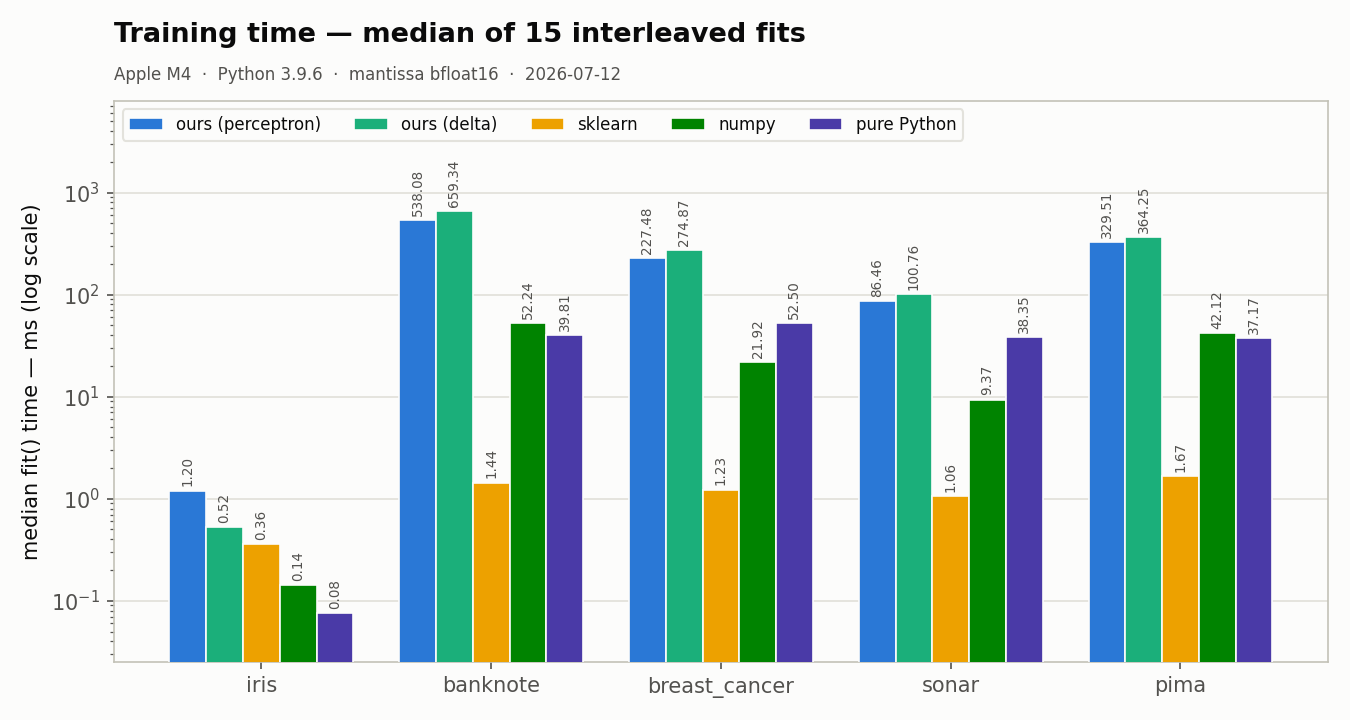
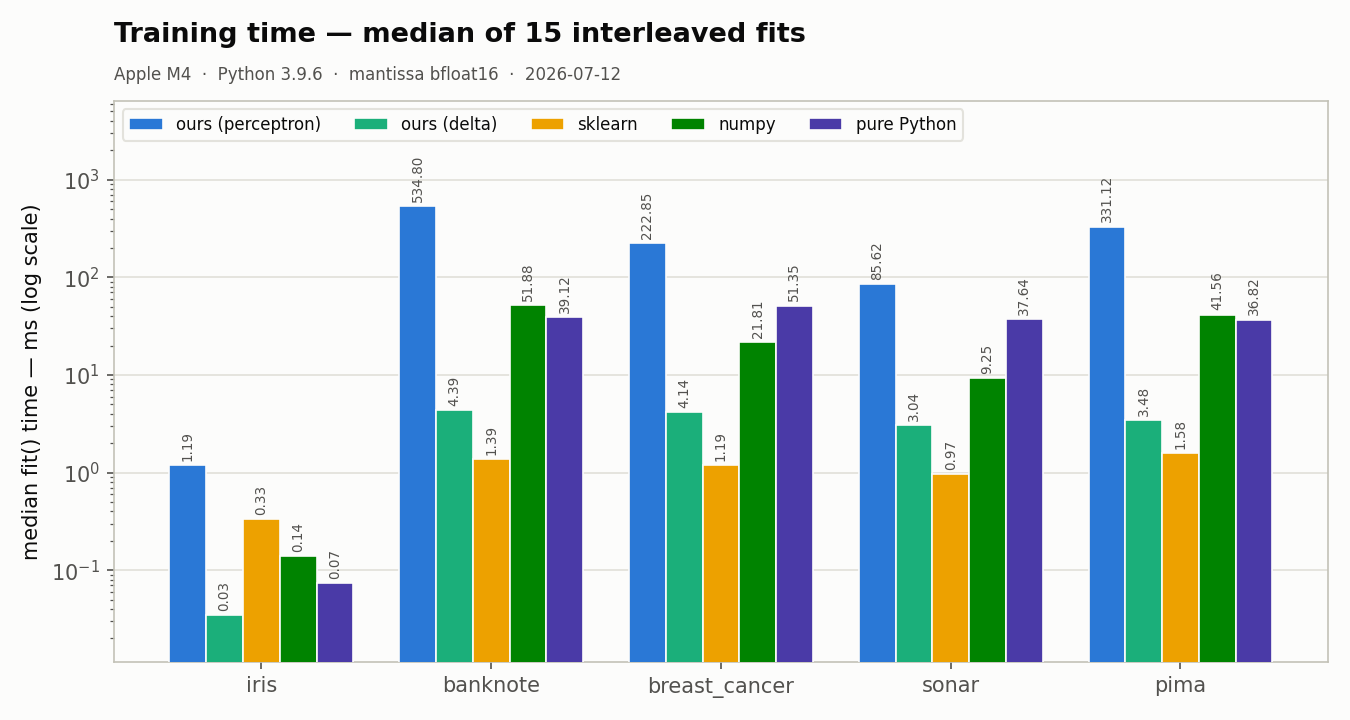
perf: adopt mantissa's epoch API — delta fit 661 -> 4.39 ms (151x)
The benchmark's own finding, closed end-to-end. The first run measured
our delta-rule fit at 661 ms and isolated the cause to one Python->C
crossing per training sample (docs/LEARNINGS.md L4). That went upstream:
mantissa v0.1.11 added tk_train_epoch_f32 (the whole epoch's sample loop
runs inside the library — same sequential SGD, bit-identical weights,
one crossing per epoch) and v0.1.12 added an out= output buffer to
linear_forward.

Adopted here:
- fit(rule='delta'): one train_epoch call per epoch (the shuffled order
  is materialized once per epoch and handed to C); per-sample train_step
  loop removed. Weight trajectory is bit-identical, so every accuracy
  number is unchanged — verified by re-running bench/accuracy.py.
- decision_function: results now land directly in a numpy buffer via
  out= (no per-element boxing of the margins).

Re-measured on the identical protocol (banknote 1372x4, 100 epochs,
15 interleaved repeats, medians, Apple M4):

  ours (delta)   fit 661.37 -> 4.39 ms   (151x; ~9x faster than the
                                          hand-rolled numpy loop, 3.2x
                                          behind scikit-learn's Cython)
  batch predict  0.028 -> 0.010 ms       (4.6x faster than sklearn)
  peak RSS       26.8 MB, unchanged      (still 3.5x leaner than sklearn)

The Rosenblatt rule stays per-sample (534.80 ms) and the README says so
plainly: a mistake-driven update does not map onto a gradient-epoch API;
[…]

diff --git a/mantissa_perceptron/perceptron.py b/mantissa_perceptron/perceptron.py
@@ -94,7 +94,6 @@ class Perceptron:
         tk = engine()
         identity = load_mantissa().IDENTITY
         rng = np.random.default_rng(self.seed)
-        target = np.empty(1, dtype=np.float32)
 
         for epoch in range(self.epochs):
             order = rng.permutation(n) if self.shuffle else np.arange(n)
@@ -106,11 +105,18 @@ class Perceptron:
                         self.w_ += self.lr * t[i] * X[i]
                         self.b_ += self.lr * t[i]
                         mistakes += 1
-            else:  # delta: whole step inside the C engine, zero-copy in-place
-                for i in order:
-                    target[0] = t[i]
-                    tk.train_step(self.w_, X[i], target, 1, d, identity,
-                                  self.lr, bias=self.b_)
+            else:
+                # delta: the WHOLE epoch is one C call (tk_train_epoch_f32) —
+                # sequential SGD identical to per-sample train_step calls, but
+                # one FFI crossing per epoch instead of one per sample
+                # (mantissa v0.1.11; measured ~140x on this exact pattern).
+                if self.shuffle:
+                    Xe = np.ascontiguousarray(X[order])
+                    te = np.ascontiguousarray(t[order])
+                else:
+                    Xe, te = X, t
+                tk.train_epoch(self.w_, Xe, te, n, 1, d, identity,
+                               self.lr, bias=self.b_)
                 mistakes = int(np.count_nonzero(self.decision_function(X) * t <= 0.0))
             self.errors_.append(mistakes)
             if mistakes == 0:
@@ -130,10 +136,11 @@ class Perceptron:
         X @ w — mantissa's row-parallel kernel does the batch for free.
         """
         X = self._check_X(X, n_features=self.w_.shape[0])
-        z = engine().linear_forward(X, self.w_, None,
-                                    out_dim=X.shape[0], in_dim=X.shape[1],
-                                    act=load_mantissa().IDENTITY)
-        return np.asarray(z, dtype=np.float32) + self.b_[0]
+        z = np.empty(X.shape[0], dtype=np.float32)
+        engine().linear_forward(X, self.w_, None,
+                                out_dim=X.shape[0], in_dim=X.shape[1],
+                                act=load_mantissa().IDENTITY, out=z)
+        return z + self.b_[0]
 
     def predict(self, X):
         return np.where(self.decision_function(X) > 0.0,

diff --git a/README.md b/README.md
@@ -102,35 +102,43 @@ repeats, medians):
 
 | contender | fit (ms) ↓ | predict (ms) ↓ | peak RSS (MB) ↓ |
 |-----------|-----------:|---------------:|----------------:|
-| ours (perceptron) | 537.06 | 0.029 | **26.7** |
-| ours (delta)      | 661.37 | 0.028 | **26.8** |
-| scikit-learn      | **1.42** | 0.047 | 93.4 |
-| numpy (hand-rolled) | 51.63 | **0.006** | 26.6 |
-| pure Python       | 39.73 | 0.093 | 26.6 |
+| ours (delta)      | 4.39 | 0.010 | **26.8** |
+| ours (perceptron) | 534.80 | 0.011 | **26.8** |
+| scikit-learn      | **1.39** | 0.046 | 93.2 |
+| numpy (hand-rolled) | 51.88 | **0.006** | 26.6 |
+| pure Python       | 39.12 | 0.090 | 26.6 |
 
 *torch omitted — not importable in this environment; the harness includes it
 automatically when it is.*
 
-**Read this honestly.** We are the **leanest** contender and among the
-**worst** at training speed, and both facts have the same cause.
+**Read this honestly — including what changed.** The first run of this
+benchmark measured `ours (delta)` at **661 ms**: every training sample paid a
+Python→C ctypes crossing, and on problems this small the boundary dwarfs the
+arithmetic. That finding went upstream (see
+[`docs/LEARNINGS.md`](docs/LEARNINGS.md)): mantissa v0.1.11 added
+`tk_train_epoch_f32`, which runs the whole epoch's sample loop inside the
+library — same sequential SGD, bit-identical weights, one crossing per epoch.
+The result on the identical protocol: **661 → 4.39 ms (151×)**.
 
-- **Memory (our win): 26.7 MB vs scikit-learn's 93.4 MB — 3.5× leaner**,
+- **Training (delta): 4.39 ms** — ~9× faster than a hand-rolled numpy loop
+  and ~3.2× behind scikit-learn's Cython SGD. Closing a 466× gap to 3.2×
+  by moving one loop across the FFI boundary is the whole lesson of this
+  benchmark.
+- **Training (perceptron rule): 534.80 ms, unchanged and still honest** — the
+  mistake-driven Rosenblatt update doesn't map onto a gradient-epoch API, so
+  it still crosses the boundary per sample. It exists for the convergence
+  theorem, not for speed; use `rule="delta"` when training time matters.
+- **Memory (our win): 26.8 MB vs scikit-learn's 93.2 MB — 3.5× leaner**,
   import + one fit, whole-process peak. The mantissa engine adds only a
-  ~70 KB C dylib on top of the interpreter+numpy floor that every contender
-  pays; scikit-learn drags in scipy and its Cython extensions.
-- **Fit time (our loss): ~380× slower than scikit-learn, and slower even
-  than a naive numpy or pure-Python loop.** The perceptron rule crosses the
-  Python→C ctypes boundary *once per training sample* (a 1×d GEMV); the delta
-  rule makes a full `tk_train_step_f32` call per sample. On problems this
-  small the per-call overhead dwarfs the arithmetic, so C buys us nothing and
-  the boundary crossings cost everything. See
-  [`docs/LEARNINGS.md`](docs/LEARNINGS.md) — a batched training entry point
-  in mantissa would close most of this gap.
-- **Batch predict (a modest win): 0.029 ms** — the whole test set is one
-  threaded C GEMV (`decision_function` passes X as the weight matrix). That
-  beats scikit-learn (0.047 ms) and pure Python (0.093 ms), though a raw
-  numpy matmul (0.006 ms) still wins on a batch this tiny.
-- **Accuracy: at parity with scikit-learn** across all five datasets (below).
+  ~70 KB C dylib on top of the interpreter+numpy floor every contender pays;
+  scikit-learn drags in scipy and its Cython extensions.
+- **Batch predict: 0.010 ms — 4.6× faster than scikit-learn** (0.046 ms).
+  The whole test set is one threaded C call, now written straight into a
+  caller buffer (`out=`, mantissa v0.1.12). A raw numpy matmul (0.006 ms)
+  still wins on a batch this tiny.
+- **Accuracy: at parity with scikit-learn** across all five datasets (below),
+  and bit-identical to the pre-speedup runs — the epoch API changed where the
+  loop runs, not what it computes.
 
 ![test accuracy per dataset: ours vs scikit-learn](assets/accuracy.png)
 ![median fit time per dataset per contender, log scale](assets/fit_time.png)
@@ -138,19 +146,19 @@ automatically when it is.*
 
 **Fairness caveats.**
 - scikit-learn's `Perceptron` is Cython SGD doing *strictly more* work per
-  epoch (loss bookkeeping, penalty plumbing) yet wins fit time by orders of
-  magnitude — the gap measures our ctypes per-call overhead, not algorithmic
-  cost.
+  epoch (loss bookkeeping, penalty plumbing); the remaining 3.2× gap is a
+  compiled-loop-vs-one-FFI-call-per-epoch difference plus our per-epoch
+  mistake count, not algorithmic cost.
 - We set `tol=None` on scikit-learn to disable its early stopping and equalize
   the 100-epoch budget. `ours (perceptron)`, `numpy`, and `pure Python` all
   early-stop at zero training mistakes; scikit-learn's SGD does not.
 - `numpy`/`pure Python` implement the *same* mistake-driven rule as
   `ours (perceptron)`, so their fit times are the honest apples-to-apples
-  baseline for the ctypes overhead.
+  baseline for the remaining per-sample ctypes overhead.
 
 **Environment.** Apple M4 · Python 3.9.6 · numpy 2.0.2 · scikit-learn 1.6.1 ·
-mantissa dtype bfloat16 · threads default(10) · 2026-07-12. Full raw samples
-and versions in `bench/results/speed.json` (regenerable, gitignored).
+mantissa 0.1.12 dtype bfloat16 · threads default(10) · 2026-07-12. Full raw
+samples and versions in `bench/results/speed.json` (regenerable, gitignored).
 <!-- END:BENCH -->
 
 ### Methodology

diff --git a/docs/LEARNINGS.md b/docs/LEARNINGS.md
@@ -42,6 +42,12 @@ win. No vibes; numbers or a plan to get them.
 
 ## L4. Measured: FFI overhead confirms L1 — we lose fit time to per-sample crossings
 
+> **STATUS: LANDED UPSTREAM.** mantissa v0.1.11 shipped `tk_train_epoch_f32`
+> (whole epoch in one crossing; 141x measured in isolation) and v0.1.12 added
+> `tk_linear_forward_batch` + `out=`. Adopted here: delta fit 661 -> 4.39 ms
+> (151x) on banknote, accuracy bit-identical. The loop closed exactly as this
+> entry predicted.
+
 - **Observation (Dev B, `bench/speed.py`, banknote 1372×4, 100-epoch cap,
   15 interleaved repeats, medians, Apple M4)**: median fit times —
   - `ours (perceptron)`  537 ms  (one `linear_forward` crossing / sample)
